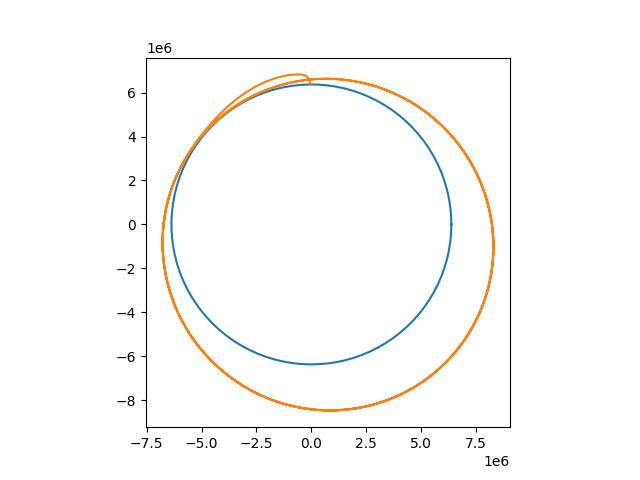
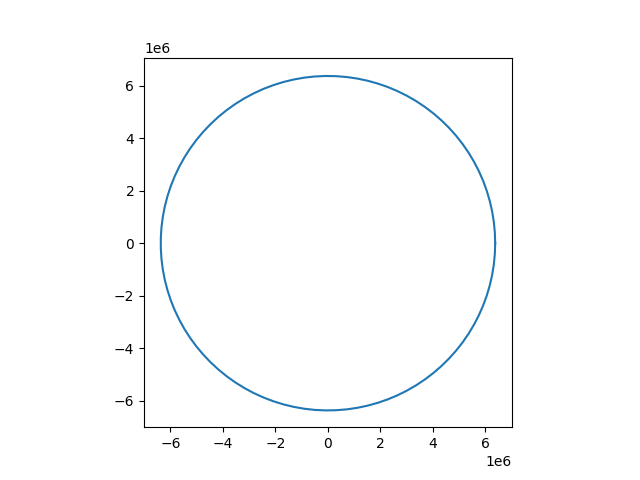
added randoptimize + rm fix + frees

diff --git a/optimize.py b/optimize.py
@@ -1,0 +1,162 @@
+import unittest
+import ctypes 
+import os
+import numpy as np
+import math as m 
+import matplotlib.pyplot as plt
+#2D vector corresponding to 2D-data
+class vector(ctypes.Structure):
+    _fields_ = [("x", ctypes.c_longdouble),
+                ("y", ctypes.c_longdouble)]
+
+#4D vector corresponding to 2D-data and its derivatives
+class bivector(ctypes.Structure):
+    _fields_ = [("x", ctypes.c_longdouble),
+                ("y", ctypes.c_longdouble),
+                ("dx", ctypes.c_longdouble),
+                ("dy", ctypes.c_longdouble)]
+
+#Struct containing the heading
+class commandList(ctypes.Structure):
+    pass
+
+commandList._fields_ = [("t", ctypes.c_longdouble),
+                ("c", ctypes.c_longdouble),
+                ("next", ctypes.POINTER(commandList))]
+
+class rocket_data(ctypes.Structure):
+    _fields_ = [("stageNumber", ctypes.c_int),
+                ("boosters", ctypes.c_int),
+                ("fO", ctypes.c_longdouble),
+                ("fISP", ctypes.c_longdouble),
+                ("sO", ctypes.c_longdouble),
+                ("sISP", ctypes.c_longdouble),
+                ("bO", ctypes.c_longdouble),
+                ("bISP", ctypes.c_longdouble),
+                ("T1", ctypes.c_longdouble),
+                ("T2", ctypes.c_longdouble),
+                ("TB", ctypes.c_longdouble),
+                ("fM", ctypes.c_longdouble),
+                ("sM", ctypes.c_longdouble),
+                ("bM", ctypes.c_longdouble),
+                ("pM", ctypes.c_longdouble),
+                ("cList", ctypes.POINTER(commandList))]
+
+class stockBivectors(ctypes.Structure):
+    pass
+
+stockBivectors._fields_ = [("state", ctypes.POINTER(bivector)),
+                    ("previous", ctypes.POINTER(stockBivectors))]
+
+#Opening the shared libraries
+try :
+    forces = ctypes.CDLL(os.path.abspath('./physics/physics.so'))
+except :
+    forces = ctypes.CDLL(os.path.abspath('./physics.so'))
+    
+
+forces.norm.restype = ctypes.c_longdouble
+forces.command.restype = ctypes.c_longdouble
+forces.weight.restype = ctypes.POINTER(vector)
+forces.d_isp.restype = ctypes.c_longdouble
+forces.thrust.restype = ctypes.POINTER(vector)
+forces.mass.restype = ctypes.c_longdouble
+forces.forces.restype = ctypes.POINTER(bivector)
+forces.runge_kutta4.restype = ctypes.POINTER(stockBivectors)
+forces.runge_kutta_J_GTO.restype = ctypes.c_longdouble
+
+#Utilities for linked list 
+def gen_commandList(commands, times):
+    cFirst = None
+    if len(commands)==len(times):
+        cList_next = ctypes.pointer(commandList())
+        cFirst = cList_next
+        i = 0
+        for i in range(len(commands)-1):
+            cList = cList_next
+            cList_next = ctypes.pointer(commandList())
+            cList.contents.t = ctypes.c_longdouble(times[i])
+            cList.contents.c = ctypes.c_longdouble(commands[i])
+            cList.contents.next = cList_next
+        i += 1 
+        cList = cList_next
+        cList.contents.t = ctypes.c_longdouble(times[i])
+        cList.contents.c = ctypes.c_longdouble(commands[i])
+        cList.next = ctypes.c_void_p(None)
+    return cFirst
+
+def random_cList(N=6):
+    times = np.linspace(0, 1375, N+1, endpoint=False).astype(int)[1::]
+    commands = np.random.rand(1, N)*2*np.pi - np.pi
+    return gen_commandList(list(commands)[0], list(times))
+
+def read_stock(pstock):
+    stock_list = []
+    test = True
+    i = 0
+    while test:
+        if i%1000==0:
+            print(i)
+        stock = pstock.contents
+        x = stock.state.contents.x
+        y = stock.state.contents.y
+        dx = stock.state.contents.dx
+        dy = stock.state.contents.dy
+        stock_list.append([x,y,dx,dy])
+        pstock = stock.previous
+        test = not ctypes.cast(pstock, ctypes.c_void_p).value == None
+        i+=1
+    return stock_list
+
+#rocket_characteristics
+cList = gen_commandList([0,0,0], [0,0,0])
+ArianeD = rocket_data(
+    ctypes.c_int(2),
+    ctypes.c_int(1), #boosters
+    ctypes.c_longdouble(318.857), #fO
+    ctypes.c_longdouble(450.4), #fISP
+    ctypes.c_longdouble(15.31338), #s0
+    ctypes.c_longdouble(446), #sISP
+    ctypes.c_longdouble(3792), #bO
+    ctypes.c_longdouble(300), #bISP
+    ctypes.c_longdouble(497), #T1
+    ctypes.c_longdouble(1375), #T2
+    ctypes.c_longdouble(125), #TB
+    ctypes.c_longdouble(184.7*1000), #fM
+    ctypes.c_longdouble(19.44*1000), #sM
+    ctypes.c_longdouble(556*1000), #bM
+    ctypes.c_longdouble(6*1000), #pM
+    cList
+)
+
+def random_optimizer(N=100):
+    #Initial condition
+    cBivector = bivector(ctypes.c_longdouble(0), ctypes.c_longdouble(6371000), ctypes.c_longdouble(-1700/3.6), ctypes.c_longdouble(0))
+    stock_Lists = []
+    stock_J = []
+    for step in range(N):
+        if step%100==0:
+            print(step)
+        ArianeD.cList = random_cList(3)
+        J = forces.runge_kutta_J_GTO(ctypes.c_int(50), ctypes.c_longdouble(0.1), ctypes.c_int(0), ctypes.pointer(cBivector), ctypes.pointer(ArianeD))
+        stock_Lists.append(ArianeD.cList)
+        stock_J.append(J)
+    print(min(stock_J))
+    i = np.argmin(stock_J)
+    cList = stock_Lists[i]
+    ArianeD.cList = cList
+    pstock = forces.runge_kutta4(ctypes.c_int(50), ctypes.c_longdouble(0.1), ctypes.c_int(0), ctypes.pointer(cBivector), ctypes.pointer(ArianeD))
+    stock = read_stock(pstock)
+    stx = list(map(lambda x : x[0], stock))
+    sty = list(map(lambda x : x[1], stock))
+    theta = np.linspace(0, 2*np.pi, 100)
+    r = 6371000
+    x1 = r*np.cos(theta)
+    x2 = r*np.sin(theta)
+    fig, ax = plt.subplots(1)
+    ax.plot(x1, x2)
+    ax.plot(stx[::-1], sty[::-1])
+    ax.set_aspect(1)
+    fig.savefig("trajectory_optimized.png")
+
+random_optimizer()

diff --git a/physics/forces.c b/physics/forces.c
@@ -14,13 +14,13 @@ long double norm (long double x, long double y) {
 
 //Computes the angle of the rocket 
 long double command(long double t, commandList* cList) {
-    commandList* tmpList = malloc(sizeof(commandList)+1);
+    commandList* tmpList = cList;
     tmpList->c = cList->c;
     tmpList->t = cList->t;
     tmpList->next = cList->next;
     long double c = cList->c;
-    /*printf("t : %Lf, tmpt : %Lf\n", t, tmpList->t);
-    printf("c : %Lf, tmpc : %Lf\n", c, tmpList->c);*/
+    //printf("t : %Lf, tmpt : %Lf\n", t, tmpList->t);
+    //printf("c : %Lf, tmpc : %Lf\n", c, tmpList->c);
     //printf("p : %p", tmpList->next);
     while (tmpList->next != NULL && tmpList->t < t) {
         tmpList = tmpList->next;
@@ -94,15 +94,20 @@ bivector* forces (long double t, bivector* X, rocket_data* rocketD) {
     bivector* force = malloc(sizeof(bivector)+1); //is the variation of (X.x, X.y, X.dx, D.dy)
     force->x = X->dx;
     force->y = X->dy;
-    vector* acceleration = malloc(sizeof(vector)+1);
-    acceleration = linVector2(1, weight(r), 1/mass(t, rocketD), thrust(c, t, rocketD));
-    //printf("weight.dy = %Lf\n", weight(r)->x);
-    printf("mass = %Lf\n", mass(t, rocketD));
+    vector* T = thrust(c, t, rocketD);
+    vector* W = weight(r);
+    vector* acceleration = linVector2(1, W, 1/mass(t, rocketD), T);
+    free(r);
+    free(T);
+    free(W);
+    printf("weight.dy = %Lf\n", weight(r)->x);
+    //printf("mass = %Lf\n", mass(t, rocketD));
     //printf("thrust.dx = %Lf\n", linVector(1/mass(t, rocketD), thrust(c, t, rocketD))->x);
     //printf("r.y = %Lf\n", r->y);
     //printf("acceleration.dy = %Lf\n", acceleration->y);*/
     force->dx = acceleration->x;
     force->dy = acceleration->y;
+    free(acceleration);
     return force;
 }
 
@@ -169,30 +174,52 @@ stockBivectors* runge_kutta4 (int step_nb, long double h, int t_0, bivector* ini
             k1 = forces(t, state, rocketD);
             //printf("k1.x %Lf k1.y %Lf k1.dx %Lf k1.dy %Lf\n", k1->x, k1->y, k1->dx, k1->dy);
             //printf("k1.x %Lf k1.y %Lf k1.dx %Lf k1.dy %Lf\n", linBivector2(1, state, h/2, k1)->x, linBivector2(1, state, h/2, k1)->y, linBivector2(1, state, h/2, k1)->dx, linBivector2(1, state, h/2, k1)->dy);
-            k2 = forces(t+h/2, linBivector2(1, state, h/2, k1), rocketD);
+            bivector* linvector = linBivector2(1, state, h/2, k1);
+            k2 = forces(t+h/2, linvector, rocketD);
+            free(linvector);
             //printf("k2.x %Lf k2.y %Lf k2.dx %Lf k2.dy %Lf\n", k2->x, k2->y, k2->dx, k2->dy);
-            k3 = forces(t+h/2, linBivector2(1, state, h/2, k2), rocketD);
-            //printf("k3.x %Lf k3.y %Lf k3.dx %Lf k3.dy %Lf\n", k3->x, k3->y, k3->dx, k3->dy);            
-            k4 = forces(t+h, linBivector2(1, state, h, k3), rocketD);
-            //printf("k4.x %Lf k4.y %Lf k4.dx %Lf k4.dy %Lf\n", k4->x, k4->y, k4->dx, k4->dy);            
-            state = linBivector5(1, state, h/6, k1, h/3, k2, h/3, k3, h/6, k4);
+            linvector =  linBivector2(1, state, h/2, k2);
+            k3 = forces(t+h/2, linvector, rocketD);
+            free(linvector);
+            //printf("k3.x %Lf k3.y %Lf k3.dx %Lf k3.dy %Lf\n", k3->x, k3->y, k3->dx, k3->dy);  
+            linvector = linBivector2(1, state, h, k3);   
+            k4 = forces(t+h, linvector, rocketD);
+            free(linvector);
+            //printf("k4.x %Lf k4.y %Lf k4.dx %Lf k4.dy %Lf\n", k4->x, k4->y, k4->dx, k4->dy);     
+            bivector* nstate = linBivector5(1, state, h/6, k1, h/3, k2, h/3, k3, h/6, k4);
+            free(state);
+            state = nstate;
             //printf("state.x %Lf\nstate.y %Lf\nstate.dx %Lf\nstate.dy %Lf\n\n", state->x, state->y, state->dx, state->dy);
             stock = consSTOCK(state, stock);
-            bivector* state = malloc(sizeof(bivector)+1);
             state->x = stock->state->x;
             state->y = stock->state->y;
             state->dx = stock->state->dx;
             state->dy = stock->state->dy;
             t += h;
+            free(k1);
+            free(k2);
+            free(k3);
+            free(k4);
         }
-        free(k1);
-        free(k2);
-        free(k3);
-        free(k4);
-        free(state);
         return stock;
     }
     else {
         return stock;
     }
+}
+
+void free_sB (stockBivectors* stock) {
+    while (stock->previous != NULL) {
+        stockBivectors* tmpstock = stock->previous;
+        //free(stock->state);
+        free(stock);
+        stock = tmpstock;
+    }
+}
+long double runge_kutta_J_GTO (int step_nb, long double h, int t_0, bivector* init_state, rocket_data* rocketD) {
+    //Computes trajectory and returns J_GTO
+    stockBivectors* stock = runge_kutta4 (step_nb, h, t_0, init_state, rocketD);
+    long double j = J_GTO(stock->state);
+    //free_sB(stock);
+    return j;
 }

diff --git a/README.md b/README.md
@@ -11,7 +11,7 @@ python3 -m venv .python-env
 
 export FLASK_APP=app.py
 
-./.python-env/bin/activate 
+source ./.python-env/bin/activate 
 
 cd physics
 
